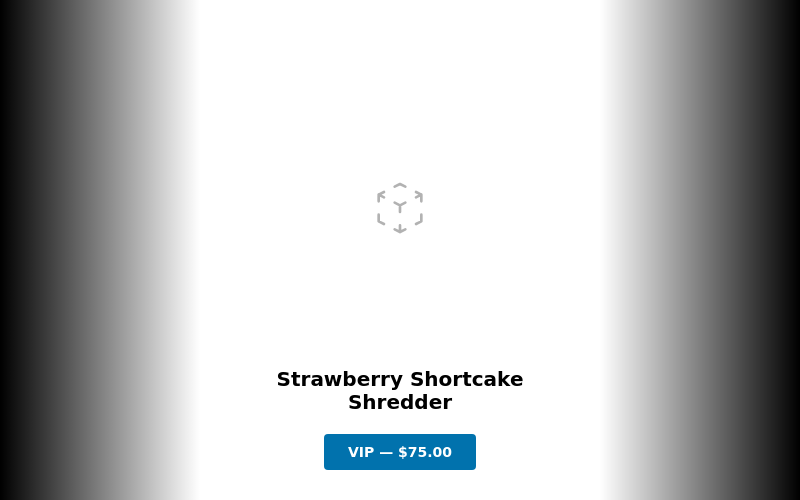
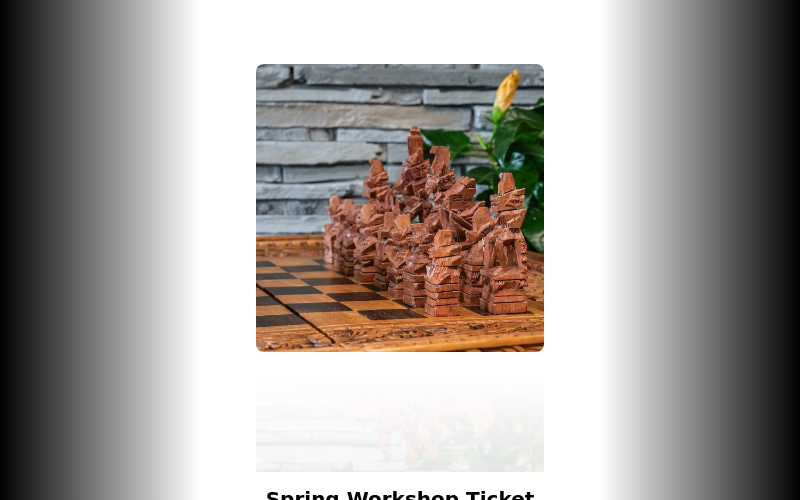
358 — ProductCarousel: manual thumbnail (ambient product-data render)
ProductCarousel renders real published `product` models via its dataContract
(no demoSeeder/demoConfig/demoImages), so an automated capture reflects the
products table at capture time — a placeholder when none carry an image, a real
photo when one does. That made its thumbnail non-deterministic across regens.

Opt it into usesManualThumbnail() and commit a photo-bearing capture, so a
--all regen never replaces it with an empty-state capture. Non-blank, so the
coverage guard still covers it.

Changed region(s): [[0.3125, 0.12, 0.6875, 0.84], [0.4062, 0.87, 0.6875, 0.96], [0.3125, 0.99, 0.6875, 1.0]]

diff --git a/app/Widgets/ProductCarousel/ProductCarouselDefinition.php b/app/Widgets/ProductCarousel/ProductCarouselDefinition.php
@@ -99,4 +99,14 @@ class ProductCarouselDefinition extends WidgetDefinition
             supportsTags: false,
         );
     }
+
+    public function usesManualThumbnail(): bool
+    {
+        // Renders real published `product` models via dataContract — no
+        // self-contained demo data — so an automated capture reflects whatever
+        // is in the products table at the time (a placeholder when none carry
+        // an image). Ships a committed photo-bearing static.png instead so a
+        // --all regen can't replace it with an empty-state capture.
+        return true;
+    }
 }